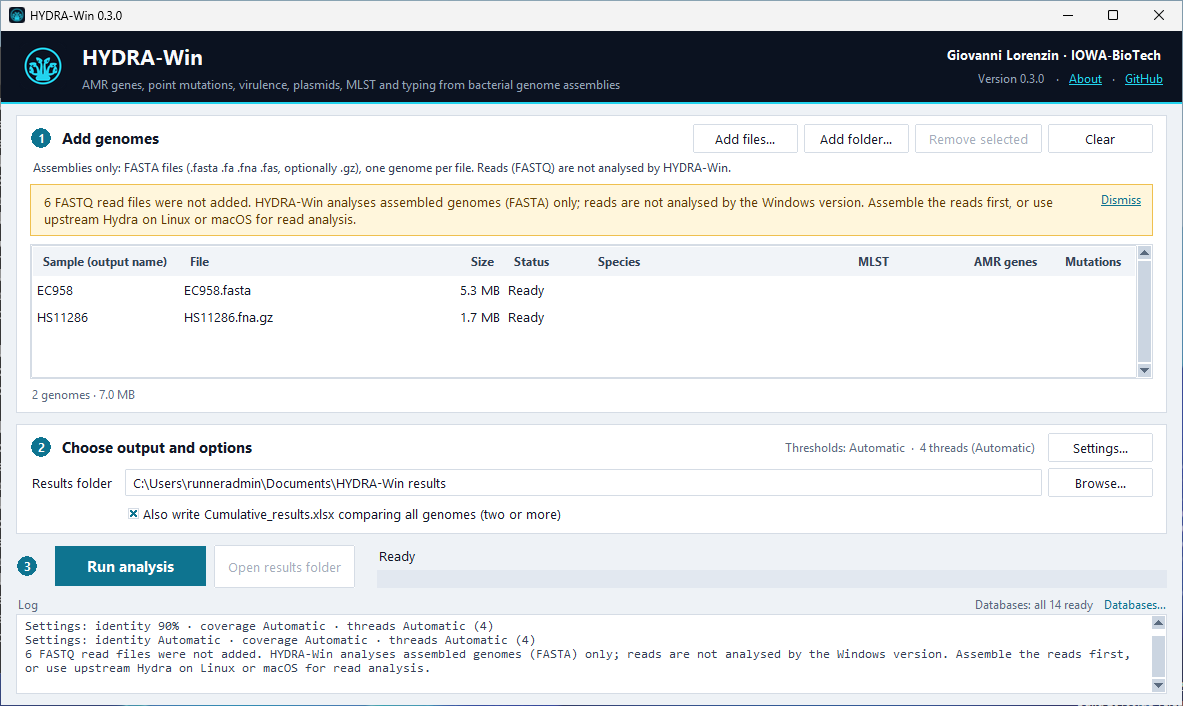
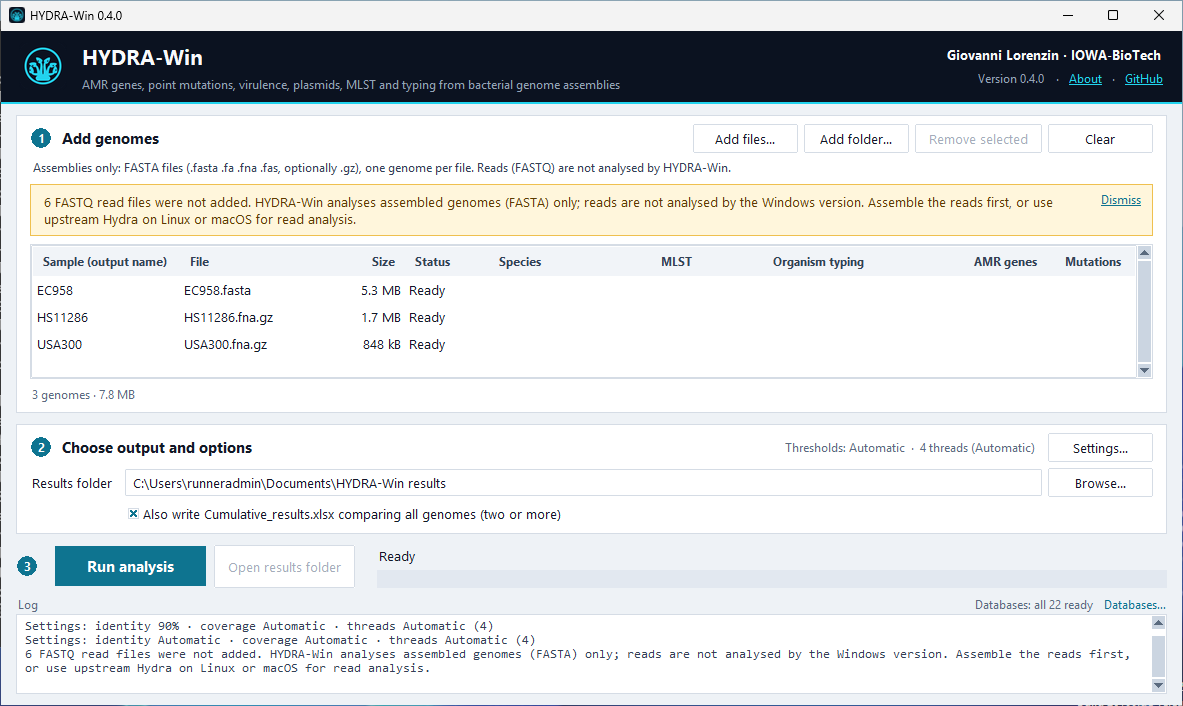
README screenshots from the green 0.4.0 build
The window table now carries an Organism typing column: EC958 'ExPEC -
phylogroup B2', USA300 'spa t008 - CC8 - agr I', and HS11286 'no module for
this species' rather than a blank.

diff --git a/README.md b/README.md
@@ -52,9 +52,10 @@ count.
 
 <p align="center"><img src="docs/screenshots/window-5-running.png" alt="Analysis running" width="860"></p>
 
-**Finished.** Species, MLST, AMR genes and point mutations fill in as each genome
-finishes, and the log lists each mutation with the resistance it is associated with.
-Double-click a row to open its workbook.
+**Finished.** Species, MLST, the headline organism typing, AMR genes and point
+mutations fill in as each genome finishes, and the log lists each mutation with the
+resistance it is associated with. A species no organism module covers says so rather
+than leaving the cell blank. Double-click a row to open its workbook.
 
 <p align="center"><img src="docs/screenshots/window-6-finished.png" alt="Analysis finished with results in the table" width="860"></p>
 
